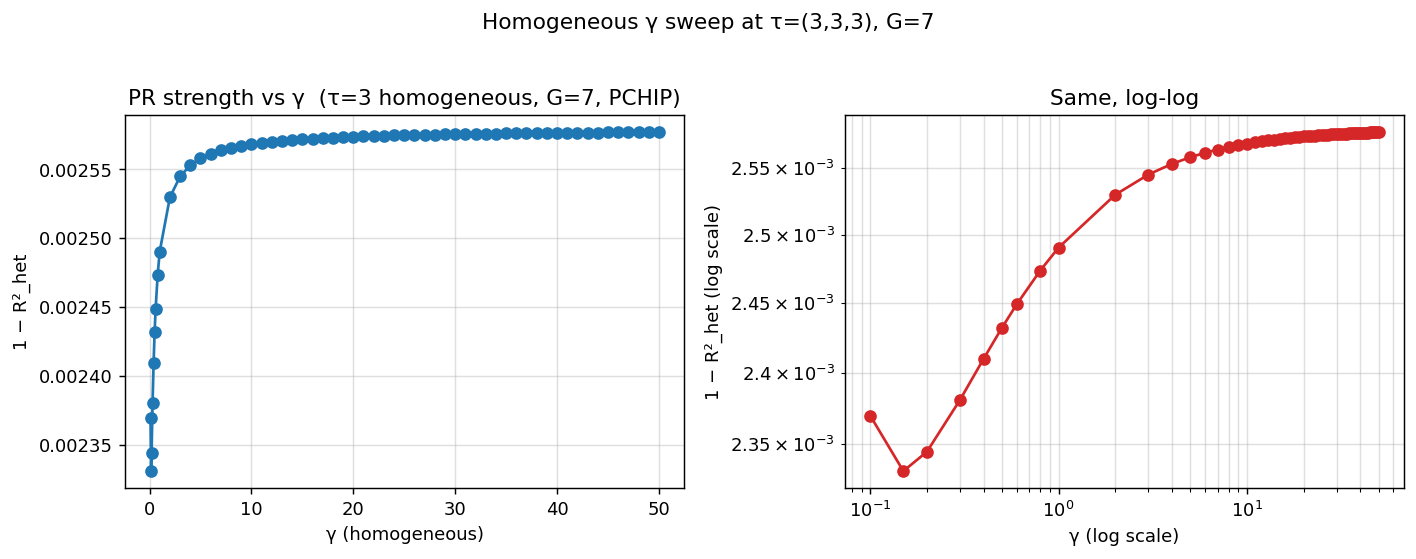
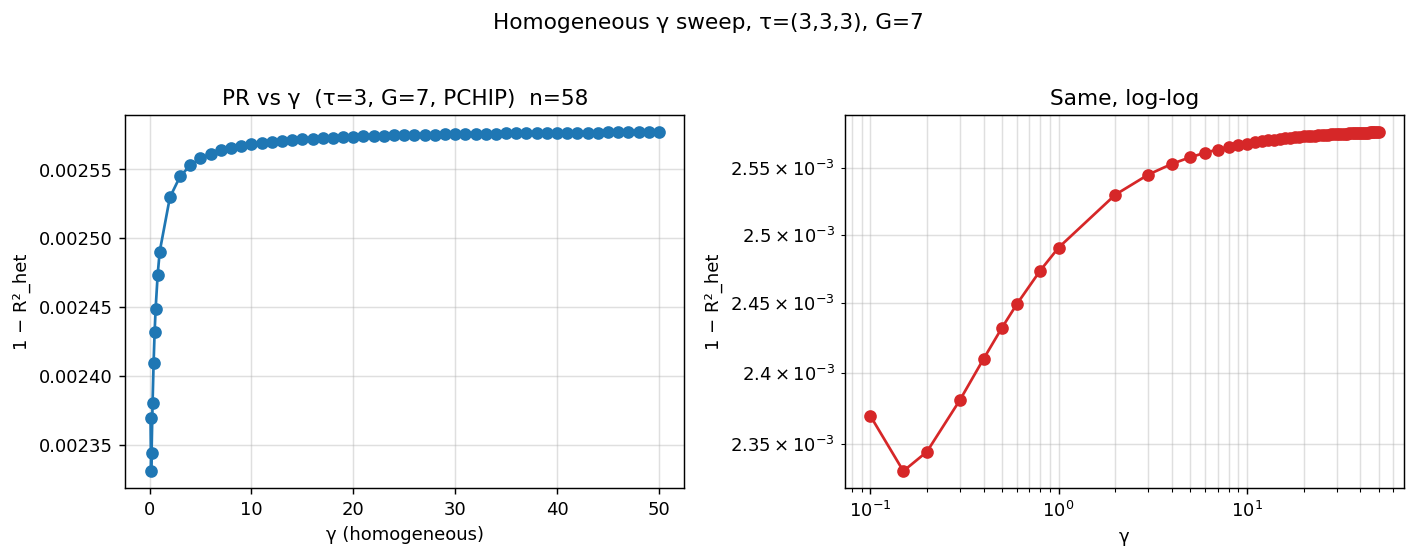
G=7 sweeps complete (72/72 converged) + both-sweep plots
γ sweep at τ=3:  58 pts, 1-R² flat at ~2.5e-3 across γ ∈ [0.1, 50]
τ sweep at γ=3:  15 pts, 1-R² grows 3e-7 (τ=0.1) → 7e-2 (τ=4)

PR is dominated by signal precision τ, not γ, in homogeneous case.

diff --git a/python/plot_1mR2_vs_gamma.py b/python/plot_1mR2_vs_gamma.py
@@ -5,53 +5,94 @@ matplotlib.use("Agg")
 import matplotlib.pyplot as plt
 
 CSV = "/home/user/REZN/python/pchip_continuation_results.csv"
-OUT = "/home/user/REZN/python/plot_1mR2_vs_gamma.png"
+OUT_GAMMA = "/home/user/REZN/python/plot_1mR2_vs_gamma.png"
+OUT_TAU   = "/home/user/REZN/python/plot_1mR2_vs_tau.png"
+OUT_BOTH  = "/home/user/REZN/python/plot_1mR2_both.png"
 
-def main():
-    rows = []
+def collect():
+    """Return dict: 'gamma' → sorted (γ, 1-R²) homo γ at τ=3;
+                    'tau'   → sorted (τ, 1-R²) homo τ at γ=3."""
+    gamma_rows = []
+    tau_rows = []
     with open(CSV) as f:
         for r in csv.DictReader(f):
             if r["converged"] != "1":
                 continue
             tau = (float(r["tau_1"]), float(r["tau_2"]), float(r["tau_3"]))
             gam = (float(r["gamma_1"]), float(r["gamma_2"]), float(r["gamma_3"]))
-            # homogeneous: all three equal
             if not (tau[0] == tau[1] == tau[2]
                     and gam[0] == gam[1] == gam[2]):
                 continue
-            # γ sweep: τ == 3
-            if abs(tau[0] - 3.0) > 1e-9:
-                continue
-            rows.append((gam[0], float(r["oneR2_het"])))
+            one_het = float(r["oneR2_het"])
+            if abs(tau[0] - 3.0) < 1e-9:
+                gamma_rows.append((gam[0], one_het))
+            if abs(gam[0] - 3.0) < 1e-9:
+                tau_rows.append((tau[0], one_het))
+    gamma_rows.sort(key=lambda x: x[0])
+    tau_rows.sort(key=lambda x: x[0])
+    return gamma_rows, tau_rows
 
-    rows.sort(key=lambda x: x[0])
-    if not rows:
-        print("No converged homogeneous γ-sweep rows in CSV.")
-        return
-    gammas = [r[0] for r in rows]
-    oneR2  = [r[1] for r in rows]
 
-    print(f"{len(rows)} converged points plotted.")
-    print("γ range:", min(gammas), "..", max(gammas))
-    print("1-R² range:", min(oneR2), "..", max(oneR2))
+def main():
+    gamma_rows, tau_rows = collect()
+    print(f"homo γ sweep: {len(gamma_rows)} pts, γ ∈ [{gamma_rows[0][0]}, {gamma_rows[-1][0]}]")
+    print(f"homo τ sweep: {len(tau_rows)} pts, τ ∈ [{tau_rows[0][0]}, {tau_rows[-1][0]}]")
 
+    # γ sweep solo
     fig, axs = plt.subplots(1, 2, figsize=(11, 4.2))
-    axs[0].plot(gammas, oneR2, "o-", color="#1f77b4")
+    xs, ys = zip(*gamma_rows)
+    axs[0].plot(xs, ys, "o-", color="#1f77b4")
     axs[0].set_xlabel("γ (homogeneous)")
     axs[0].set_ylabel("1 − R²_het")
-    axs[0].set_title("PR strength vs γ  (τ=3 homogeneous, G=7, PCHIP)")
+    axs[0].set_title(f"PR vs γ  (τ=3, G=7, PCHIP)  n={len(xs)}")
     axs[0].grid(True, alpha=0.4)
-
-    axs[1].loglog(gammas, oneR2, "o-", color="#d62728")
-    axs[1].set_xlabel("γ (log scale)")
-    axs[1].set_ylabel("1 − R²_het (log scale)")
+    axs[1].loglog(xs, ys, "o-", color="#d62728")
+    axs[1].set_xlabel("γ")
+    axs[1].set_ylabel("1 − R²_het")
     axs[1].set_title("Same, log-log")
     axs[1].grid(True, which="both", alpha=0.4)
-
-    fig.suptitle("Homogeneous γ sweep at τ=(3,3,3), G=7", y=1.02)
+    fig.suptitle("Homogeneous γ sweep, τ=(3,3,3), G=7", y=1.02)
     fig.tight_layout()
-    fig.savefig(OUT, dpi=130, bbox_inches="tight")
-    print(f"wrote {OUT}")
+    fig.savefig(OUT_GAMMA, dpi=130, bbox_inches="tight")
+    plt.close(fig)
+    print(f"wrote {OUT_GAMMA}")
+
+    # τ sweep solo
+    fig, axs = plt.subplots(1, 2, figsize=(11, 4.2))
+    xs, ys = zip(*tau_rows)
+    axs[0].plot(xs, ys, "s-", color="#2ca02c")
+    axs[0].set_xlabel("τ (homogeneous)")
+    axs[0].set_ylabel("1 − R²_het")
+    axs[0].set_title(f"PR vs τ  (γ=3, G=7, PCHIP)  n={len(xs)}")
+    axs[0].grid(True, alpha=0.4)
+    axs[1].loglog(xs, ys, "s-", color="#9467bd")
+    axs[1].set_xlabel("τ")
+    axs[1].set_ylabel("1 − R²_het")
+    axs[1].set_title("Same, log-log")
+    axs[1].grid(True, which="both", alpha=0.4)
+    fig.suptitle("Homogeneous τ sweep, γ=(3,3,3), G=7", y=1.02)
+    fig.tight_layout()
+    fig.savefig(OUT_TAU, dpi=130, bbox_inches="tight")
+    plt.close(fig)
+    print(f"wrote {OUT_TAU}")
+
+    # Combined log-log
+    fig, ax = plt.subplots(figsize=(7, 5))
+    g_x, g_y = zip(*gamma_rows)
+    t_x, t_y = zip(*tau_rows)
+    ax.loglog(g_x, g_y, "o-", color="#1f77b4",
+              label=f"γ sweep (τ=3), n={len(g_x)}")
+    ax.loglog(t_x, t_y, "s-", color="#2ca02c",
+              label=f"τ sweep (γ=3), n={len(t_x)}")
+    ax.set_xlabel("swept parameter value")
+    ax.set_ylabel("1 − R²_het")
+    ax.set_title("PR strength: homogeneous sweeps at G=7 (PCHIP)")
+    ax.grid(True, which="both", alpha=0.4)
+    ax.legend()
+    fig.tight_layout()
+    fig.savefig(OUT_BOTH, dpi=130, bbox_inches="tight")
+    plt.close(fig)
+    print(f"wrote {OUT_BOTH}")
 
 
 if __name__ == "__main__":
